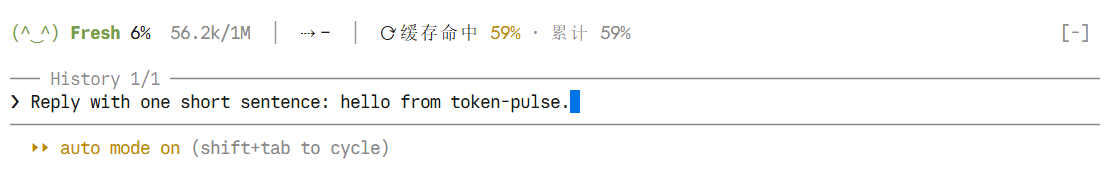
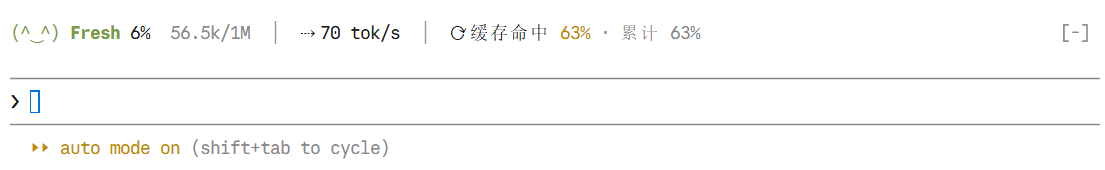
新增英文 README，更新 CLI 截图（含输出速度），plugin.json 补 homepage

diff --git a/README.en.md b/README.en.md
@@ -1,0 +1,107 @@
+# token-pulse
+
+[中文](README.md) | English
+
+A Claude Code mod that adds a status band above the prompt: context usage with an energy mascot, model output speed, and prompt cache hit rate. It replaces token-weather.
+
+```
+(-_-) Tired 67%  134.4k/200k ▃▅█ ▲ +98.4k  │  ⇢ 68 tok/s · 均 72  │  ⟳ 缓存命中 94% · 累计 88%
+```
+
+The band's labels are in Chinese: 均 = average, 缓存命中 = cache hit, 累计 = cumulative.
+
+### Desktop app (Code tab)
+
+![token-pulse in the Claude desktop app](docs/images/desktop.png)
+
+### Terminal (CLI)
+
+![token-pulse in the Claude Code terminal](docs/images/cli.png)
+
+## The energy mascot
+
+The fuller the context, the more tired the mascot gets; compacting the context lets it sleep. The desktop app (Code tab) draws it as an SVG; the terminal cannot draw images, so it shows a kaomoji instead.
+
+| Context used | State | Desktop app | Terminal | Color |
+|---|---|---|---|---|
+| < 25% | Fresh | <img src="docs/images/mascot-fresh.svg" width="42" alt="Fresh"> laughing, rosy cheeks | `(^‿^)` | green |
+| 25–50% | Focused | <img src="docs/images/mascot-focused.svg" width="42" alt="Focused"> round eyes, slight smile | `(•_•)` | teal |
+| 50–75% | Tired | <img src="docs/images/mascot-tired.svg" width="42" alt="Tired"> slit eyes, yawning | `(-_-)` | orange |
+| 75–90% | Drained | <img src="docs/images/mascot-drained.svg" width="42" alt="Drained"> drooping eyes, wavy mouth, sweat drop | `(=_=;)` | coral |
+| ≥ 90% | Exhausted | <img src="docs/images/mascot-asleep.svg" width="42" alt="Exhausted"> asleep, zZ overhead | `(-_-)zZ` | red, compaction is near |
+
+The state word (Fresh, Tired, …) and the trend bar use the same color.
+
+## What each item means
+
+| Item | Meaning |
+|---|---|
+| 67% | Share of the context window in use |
+| 134.4k/200k | Tokens used / window size |
+| ▃▅█ | Context usage at the end of each of the last 12 turns |
+| ▲ +98.4k | Change in context tokens since the previous turn |
+| ⇢ 68 tok/s | Output speed of the latest model request |
+| 均 72 | Average output speed over the last 10 valid requests, weighted by tokens |
+| ⟳ 缓存命中 94% | Prompt cache hit rate of the latest request: green ≥ 80%, yellow ≥ 50%, red < 50% |
+| 累计 88% | Cumulative cache hit rate over all requests in this session |
+
+In a narrow terminal (band under 96 columns) only the mascot, state, usage, speed and hit rate are shown. Narrow mode applies to the terminal only: the desktop app reports its width differently, and the same threshold would hide content there, so the desktop app always shows everything.
+
+## How the numbers are computed
+
+- **Output speed**: output tokens ÷ generation time. Generation time runs from the first streamed chunk to the end of the stream, so queueing and time to first token are excluded. It is measured on your machine and affected by the network; thinking tokens count as output. Requests with fewer than 20 output tokens or under 0.3 s are skipped as noise.
+- **Cache hit rate**: cache reads ÷ (uncached input + cache writes + cache reads). It is normally low on a session's first request, right after compaction, or after the cache expires (5 minutes by default).
+- Only the main conversation is counted; subagent requests are not. `/clear` resets the cumulative figures.
+
+## Usage
+
+- `/token-pulse` shows or hides the band.
+- Nothing is shown before the first model response.
+- After the first turn you see usage, token counts, speed and hit rate; the trend bar, the ▲ change and the average need at least two data points and appear from the second turn.
+
+## Install
+
+Requires Claude Code 2.1.287 or later. At the Claude Code prompt:
+
+```
+/plugin install token-pulse --marketplace gKev1n/token-pulse
+```
+
+Answer `y` to add the marketplace, then pick a scope. Or from a shell:
+
+```bash
+claude plugin install token-pulse --marketplace gKev1n/token-pulse
+```
+
+In a session that is already running, run `/reload-plugins`.
+
+If token-weather is installed, disable or uninstall it first, or you will see two bands.
+
+To work on the code, clone the repository and add the local folder instead:
+
+```bash
+git clone https://github.com/gKev1n/token-pulse.git ~/mods/token-pulse
+claude plugin marketplace add ~/mods/token-pulse
+claude plugin install token-pulse@token-pulse
+```
+
+After that, edits to the folder take effect with `/reload-plugins`; no reinstall needed.
+
+## Known issues
+
+- In Windows terminals with a CJK font, characters such as `•` may render two cells wide and shift the kaomoji slightly.
+
+## Development
+
+```bash
+claude plugin validate .
+claude plugin test .
+```
+
+- Decide the drawing surface with `e.surface !== 'terminal'`. The terminal's element table also has an `Svg` key, so checking `'Svg' in els` alone would draw SVG in the terminal.
+- In tests, `ui.render` needs an answer at the bottom of the chain from the test itself (see `engineDraws` in the test file), and the bottom answer for `session.usage` must be wrapped as `{ value: ... }`.
+- `docs/images/mascot-*.svg` are exported from `mascotSvg()` in `hooks/icon.ts`. Re-export them after changing the mascot.
+
+## License
+
+[Apache-2.0](LICENSE) © 2026 Ge

diff --git a/README.md b/README.md
@@ -1,5 +1,7 @@
 # token-pulse
 
+中文 | [English](README.en.md)
+
 Claude Code 的一个 mod：在输入框上方显示一条状态带，用来替代 token-weather。
 
 ```
